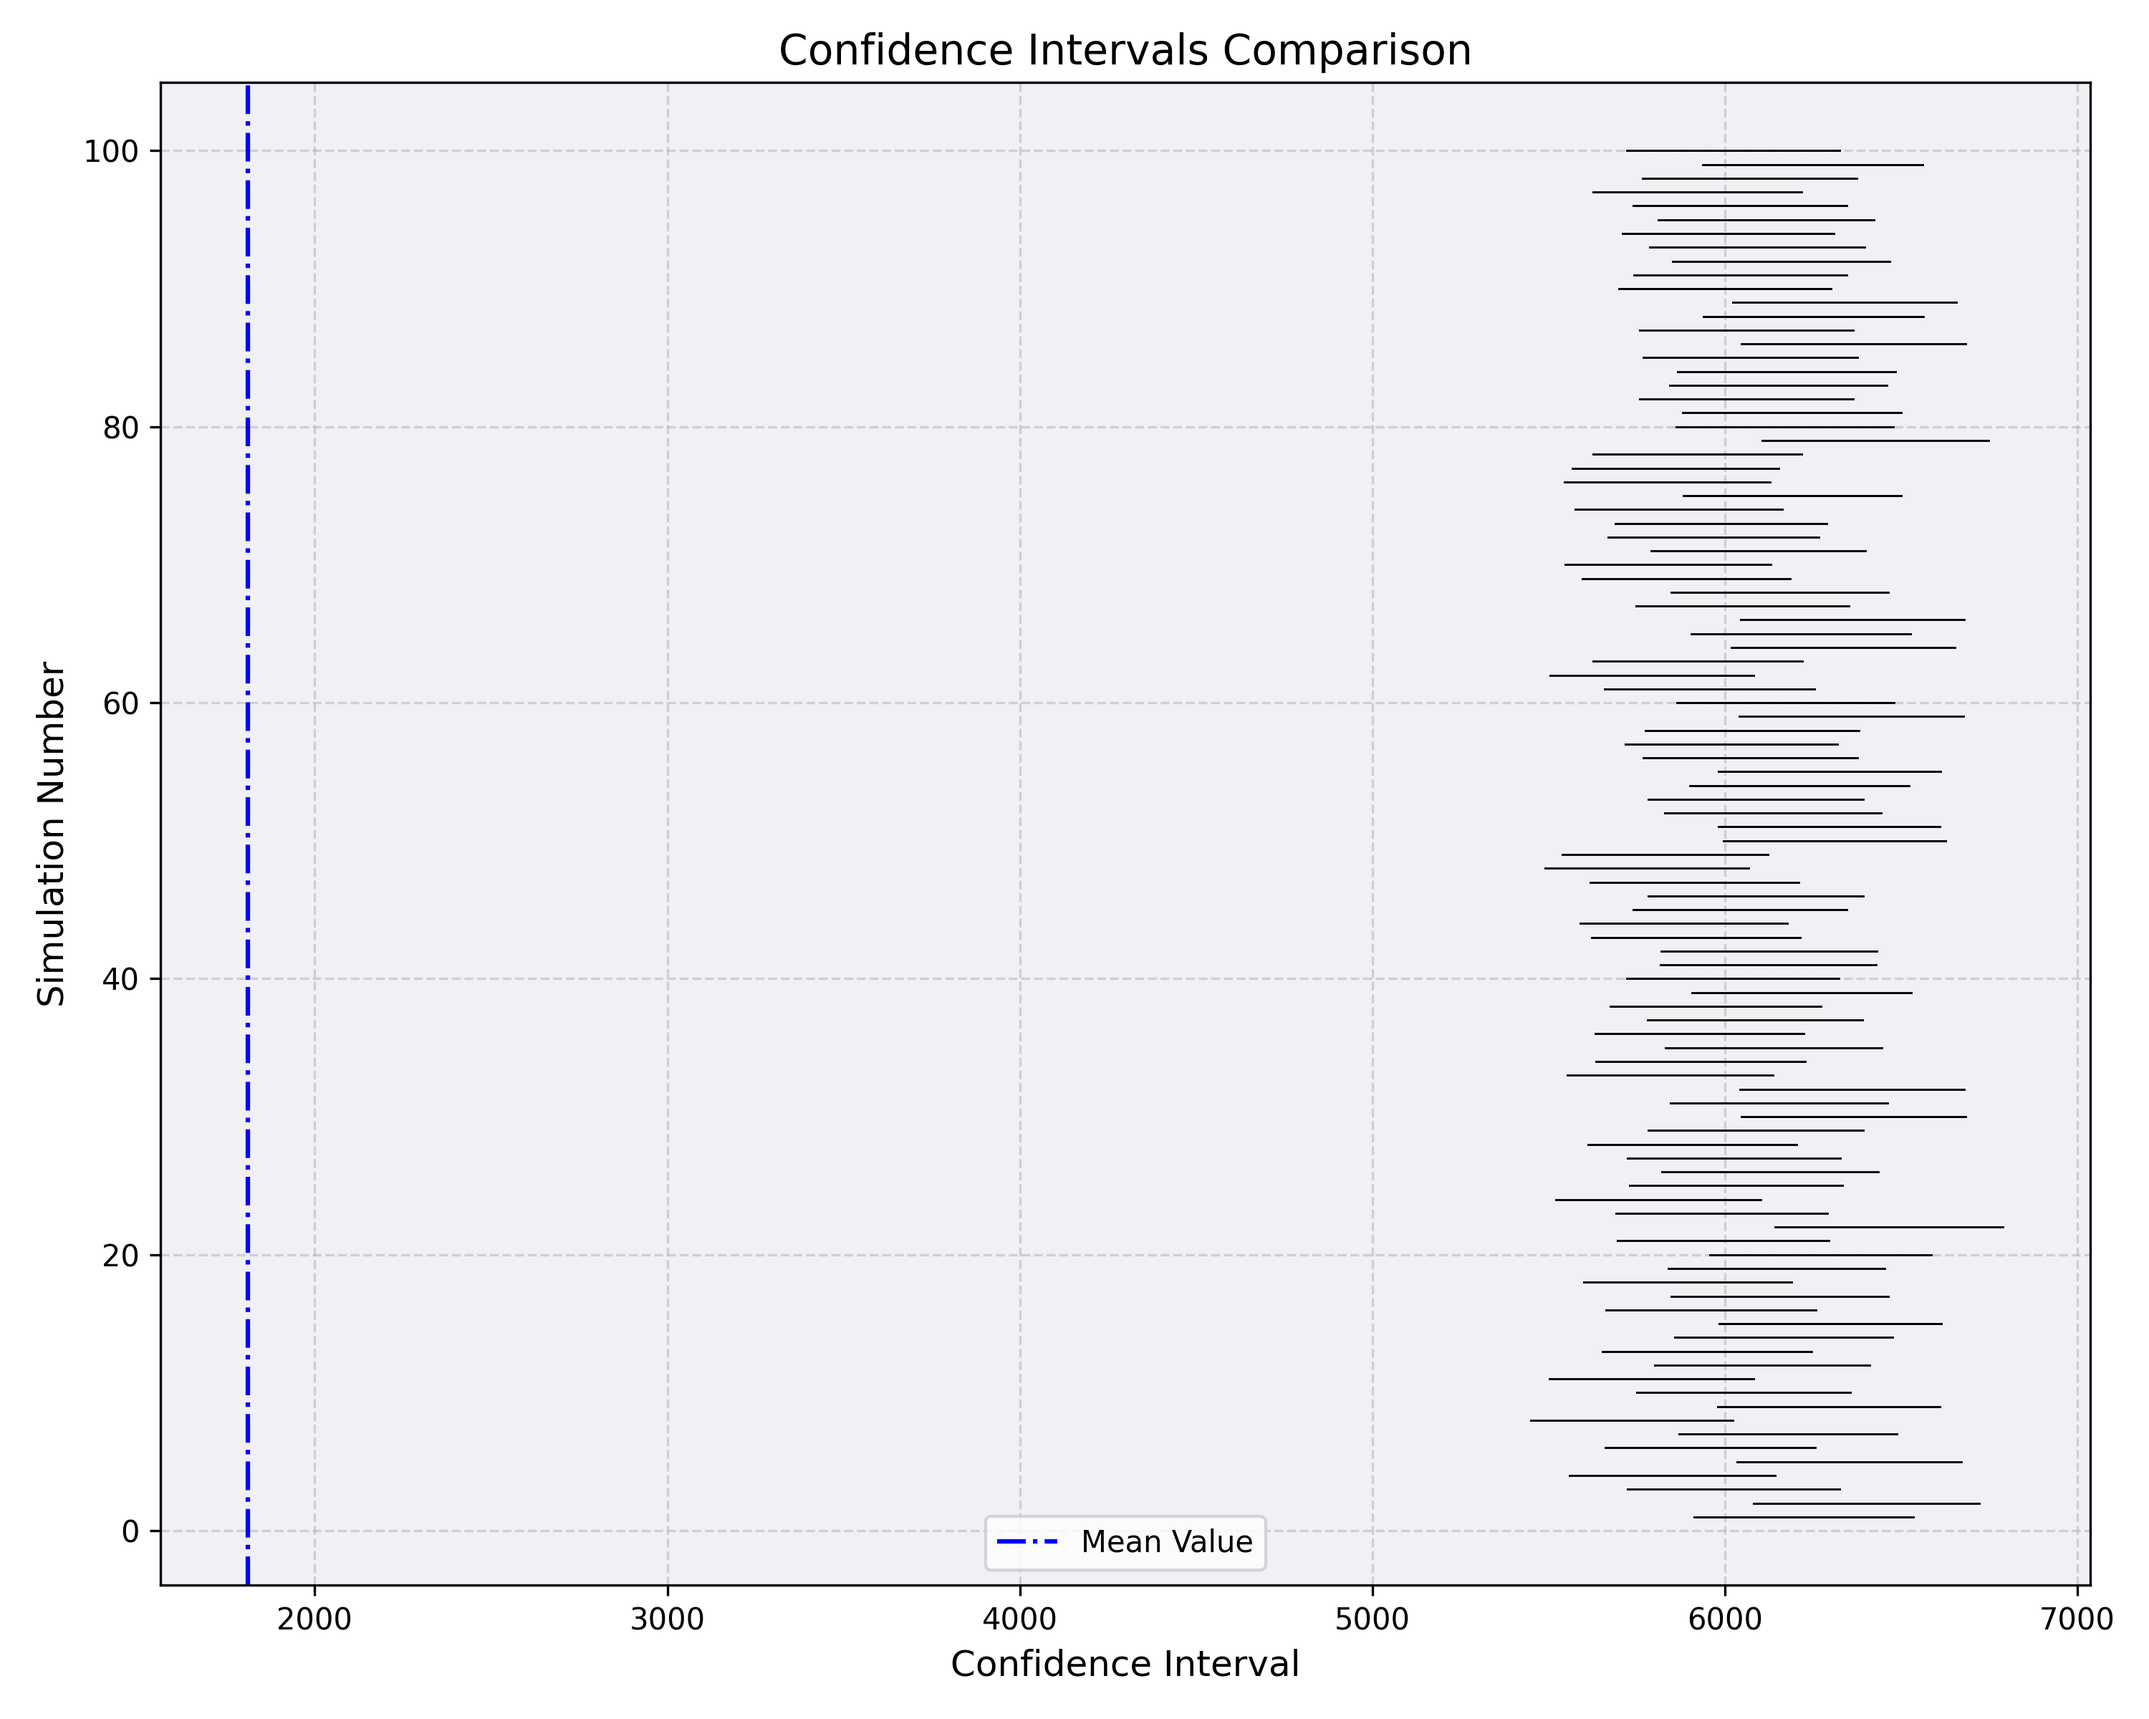
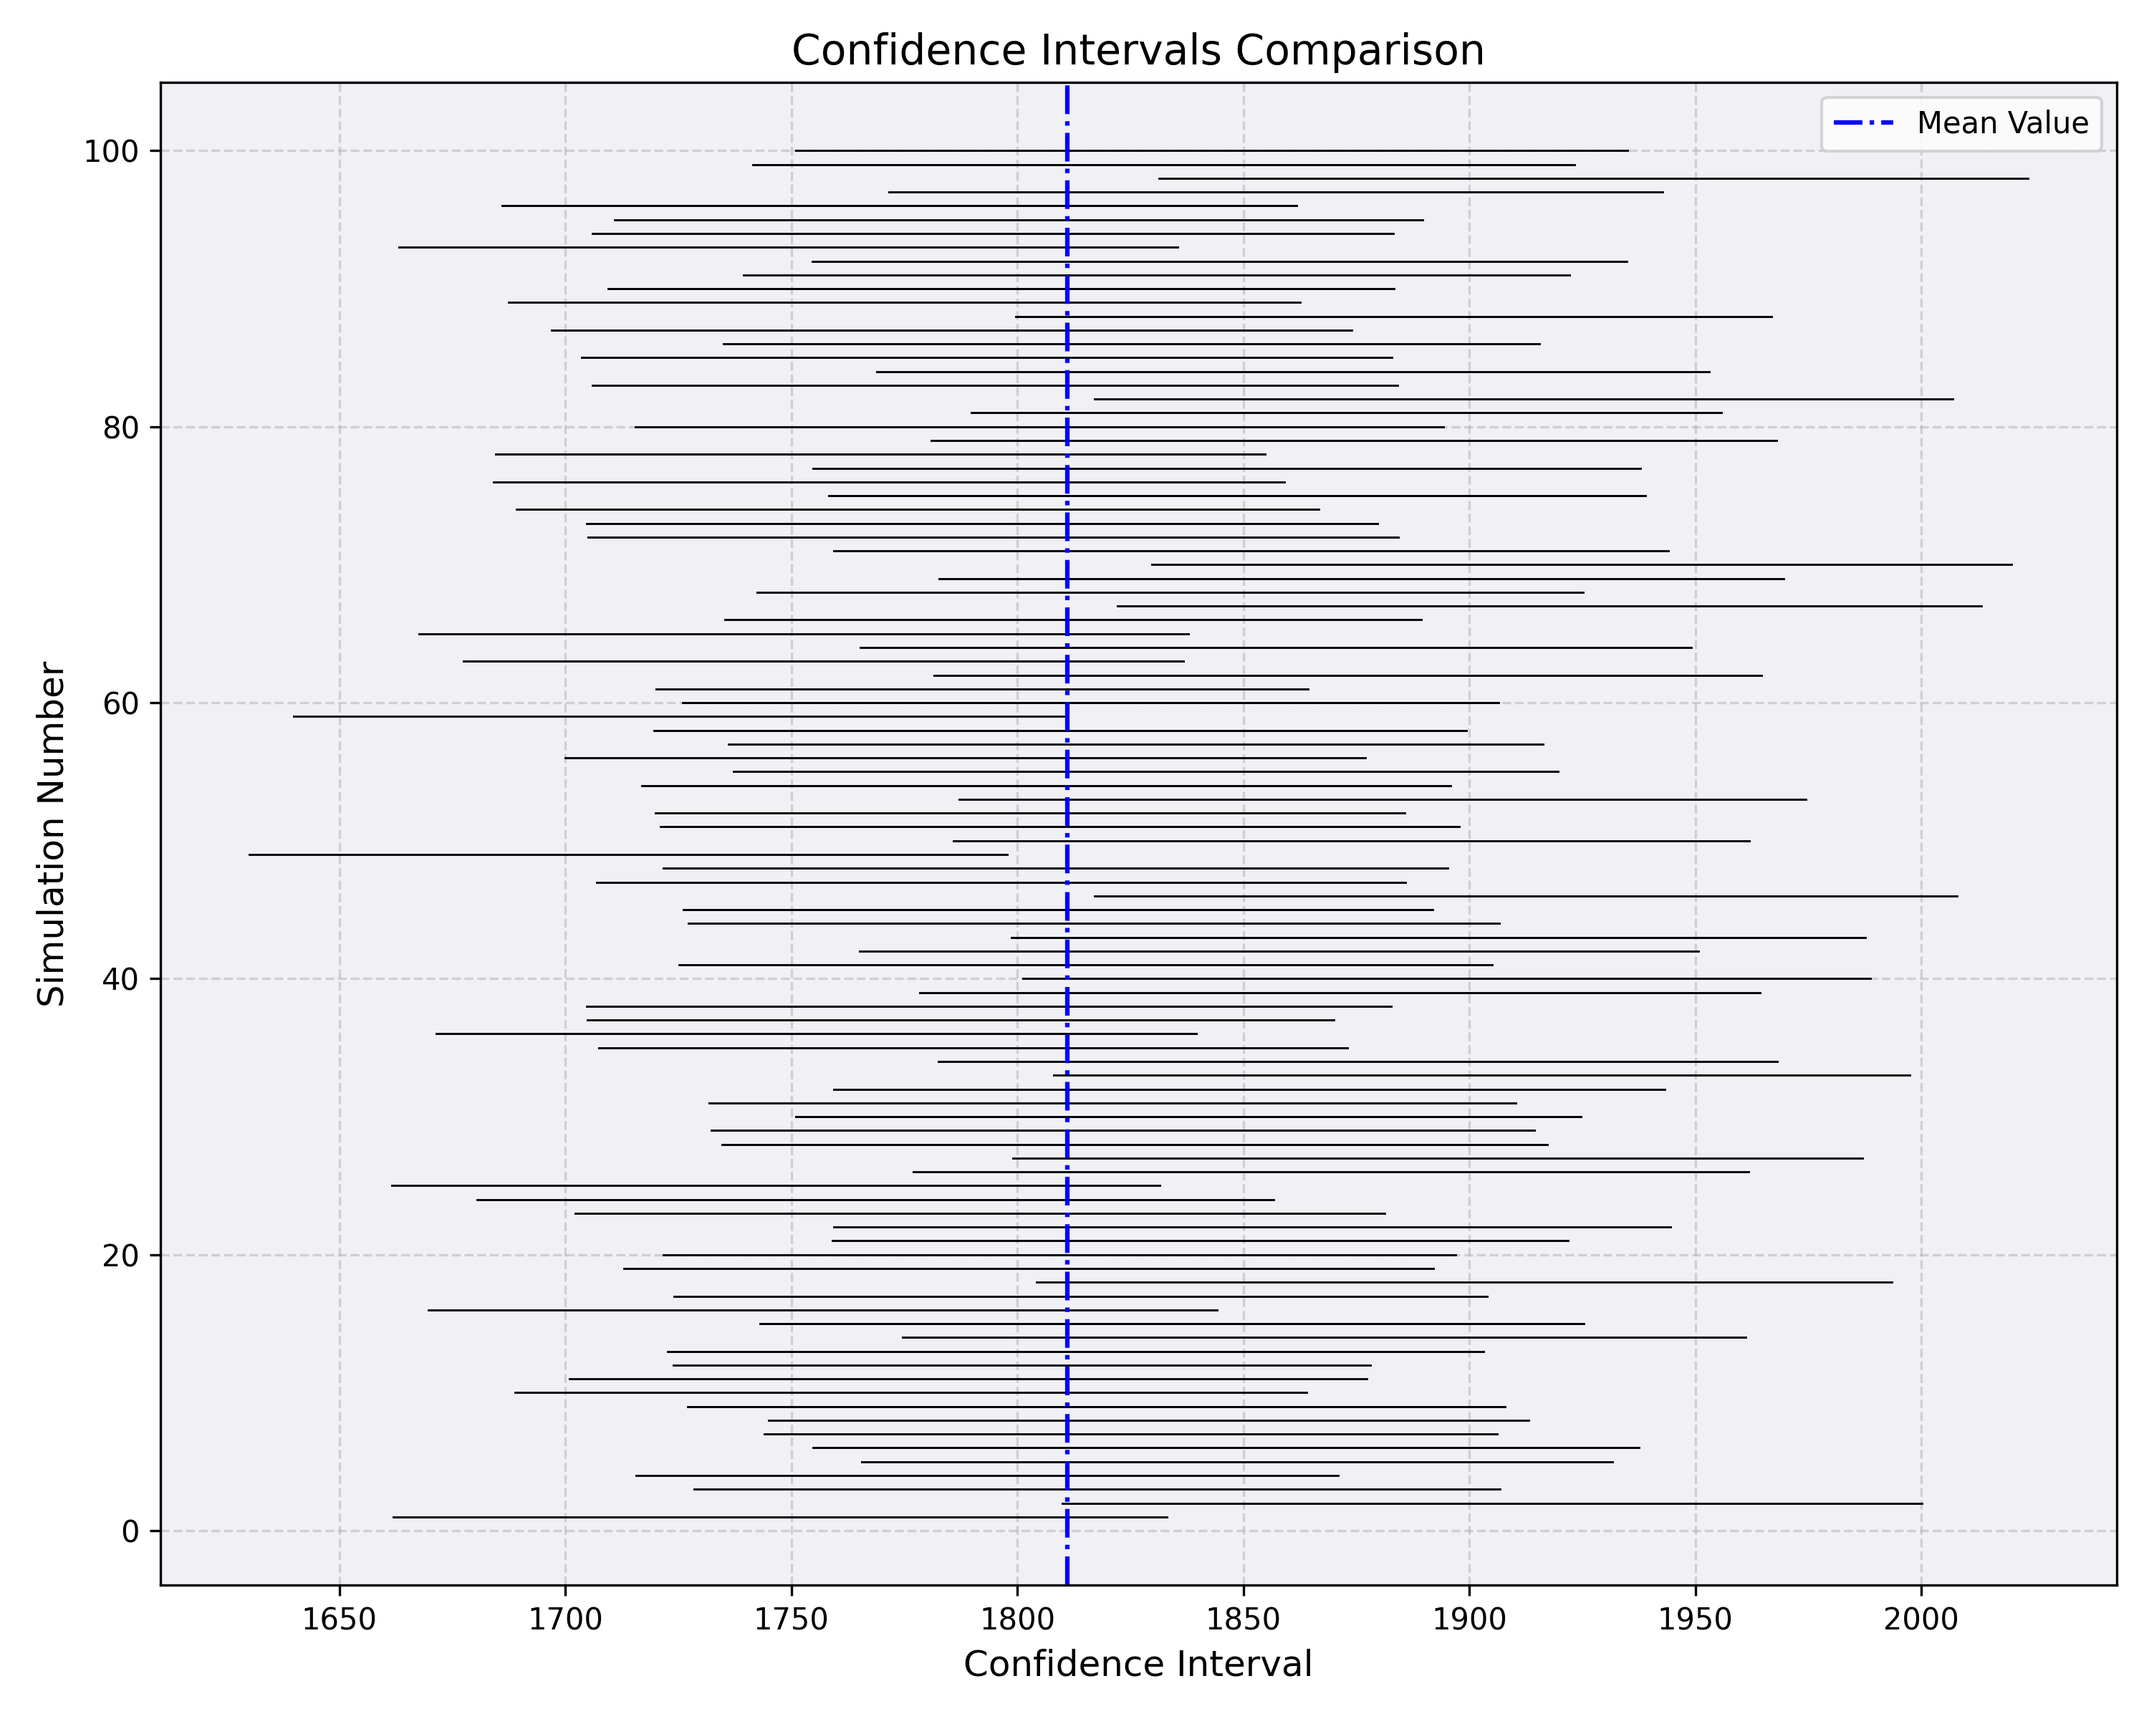
odio SIMULATIONS

diff --git a/SM/Homework 7.2/es2_minimal_mod.c b/SM/Homework 7.2/es2_minimal_mod.c
@@ -3,7 +3,7 @@ Università di Torino
 M.S. in STOCHASTICS AND DATA SCIENCE
 Course in Simulation
 Homework 7
-Third exercise
+Thrid exercise
 
 By Andrea Crusi and Lorenzo Sala
  * ------------------------------------------------------------------------- 
@@ -14,6 +14,7 @@ By Andrea Crusi and Lorenzo Sala
 #include <string.h>
 #include <math.h>
 #include <time.h>
+#include <ctype.h>
 
 #define N 10              // max number of machines
 #define HETA_ARRIVAL 3000 // Expected value for arrivals
@@ -139,6 +140,7 @@ double ComputeConfidenceIntervals(
     double *S_nu
     );
 int DecideToStop(int cycle_num, double error, double r_hat);
+int isNumber(const char *str);
 
 
 
@@ -238,7 +240,6 @@ void initialize() {
         init_job->event.create_time = sim_clock;
         init_job->event.type = AS;
         init_job->event.machine_id = i;
-        printf("arrival time picked as %f for machine %d\n",init_job->event.occur_time, init_job->event.machine_id);
         schedule(init_job); 
     }
 
@@ -424,18 +425,7 @@ void release_nodes(nodePtr *head) {
 }
 
 void report(double sim_duration) {
-    printf("\n==========================================\n");
-    printf("Simulation complete!");
-    printf("\n==========================================\n");
-    printf("\nExecution time: %f seconds\n", sim_duration);
-    printf("Number of events processed: %d\n", event_counter);
-    printf("Number of regeneration cycles: %d\n", cycle_num);
-    printf("Observation period: %f time units\n", sim_clock);
-    printf("Average waiting time at the long repair station: %f\n", r_hat);
-    printf("Unilateral error (5%%): %f\n", error);
-    printf("Confidence interval at 0.95 level: (%f, %f)\n", r_hat-error, r_hat+error);
-    printf("The error is %f %% of the value of the average", 200*error/r_hat);
-
+    printf("%f,%f\n", r_hat-error, r_hat+error);
     release_nodes(&FEL.Head);
     release_nodes(&IQ1.Head);
     release_nodes(&IQ2.Head);
@@ -592,7 +582,7 @@ void RegPoint(
     in this scenario every departure from any station may be a suitable regeneration point. 
     since we are interested in the departure from the long station we pick as regeneration points the departures from the long station.
     in order to preserve the conditions to apply the central limit theorem we have to have a reasonable sample size and so we must group different regeneration cycles together.
-    we choose 60 as our sample size, since the minimal number of samples commonly used as guideline is 30.
+    we choose 100 as our sample size, since the minimal number of samples commonly used as guideline is 30.
     */
    if (node_event->event.type == DL) {
     if (*cycle_in_group < 100) {
@@ -671,16 +661,28 @@ int DecideToStop(int cycle_num, double error, double r_hat){
     return(cycle_num > 40 && error_percentage < 0.10);  
 }
 
-int main(int argc, char *argv[]){
-    for (int i = 1; i < argc; i++) {
-        if (argv[i][0] == '-' && argv[i][1] == 'v') {
-        verbose = 1; // Enable verbose logging
-        break;       // No need to check further once we find the flag
-        }
+int isNumber(const char *str) {
+    while (*str) {
+        if (!isdigit(*str)) return 0;
+        str++;
     }
-    srand(1); //we choose a static seed
+    return 1;
+}
+
+int main(int argc, char *argv[]){
+   if (argc != 2 || !isNumber(argv[1])) {
+        printf("Usage: %s <positive integer>\n", argv[0]);
+        return 1;
+    }
+
+    /*
+    space the argument so that the sequence of random seeds provides more variability.
+    */
+    int seed = (atoi(argv[1])) * 10;
+
+    srand(seed); 
+
     initialize(); // do the initialization
-    printf("\n\nFinished initialization.\n\n");
     clock_t start_time = clock(); // start the stopwatch
     
     /*simulate*/

diff --git a/SM/Homework 7.2/plot2_mod.py b/SM/Homework 7.2/plot2_mod.py
@@ -1,7 +1,7 @@
 import matplotlib.pyplot as plt
 
 # File name containing the data
-file_name = "log2.txt"
+file_name = "log2mod.txt"
 
 # Variables to store the data
 lower_bounds = []
@@ -37,8 +37,8 @@ plt.tight_layout()
 plt.legend()
 
 # Save the plot to a file
-plt.savefig("confidence_intervals2.png", dpi=300)
-print("Plot saved as 'confidence_intervals2.png'.")
+plt.savefig("confidence_intervals2_mod.png", dpi=300)
+print("Plot saved as 'confidence_intervals2_mod.png'.")
 
 # Show the plot
 plt.show()
